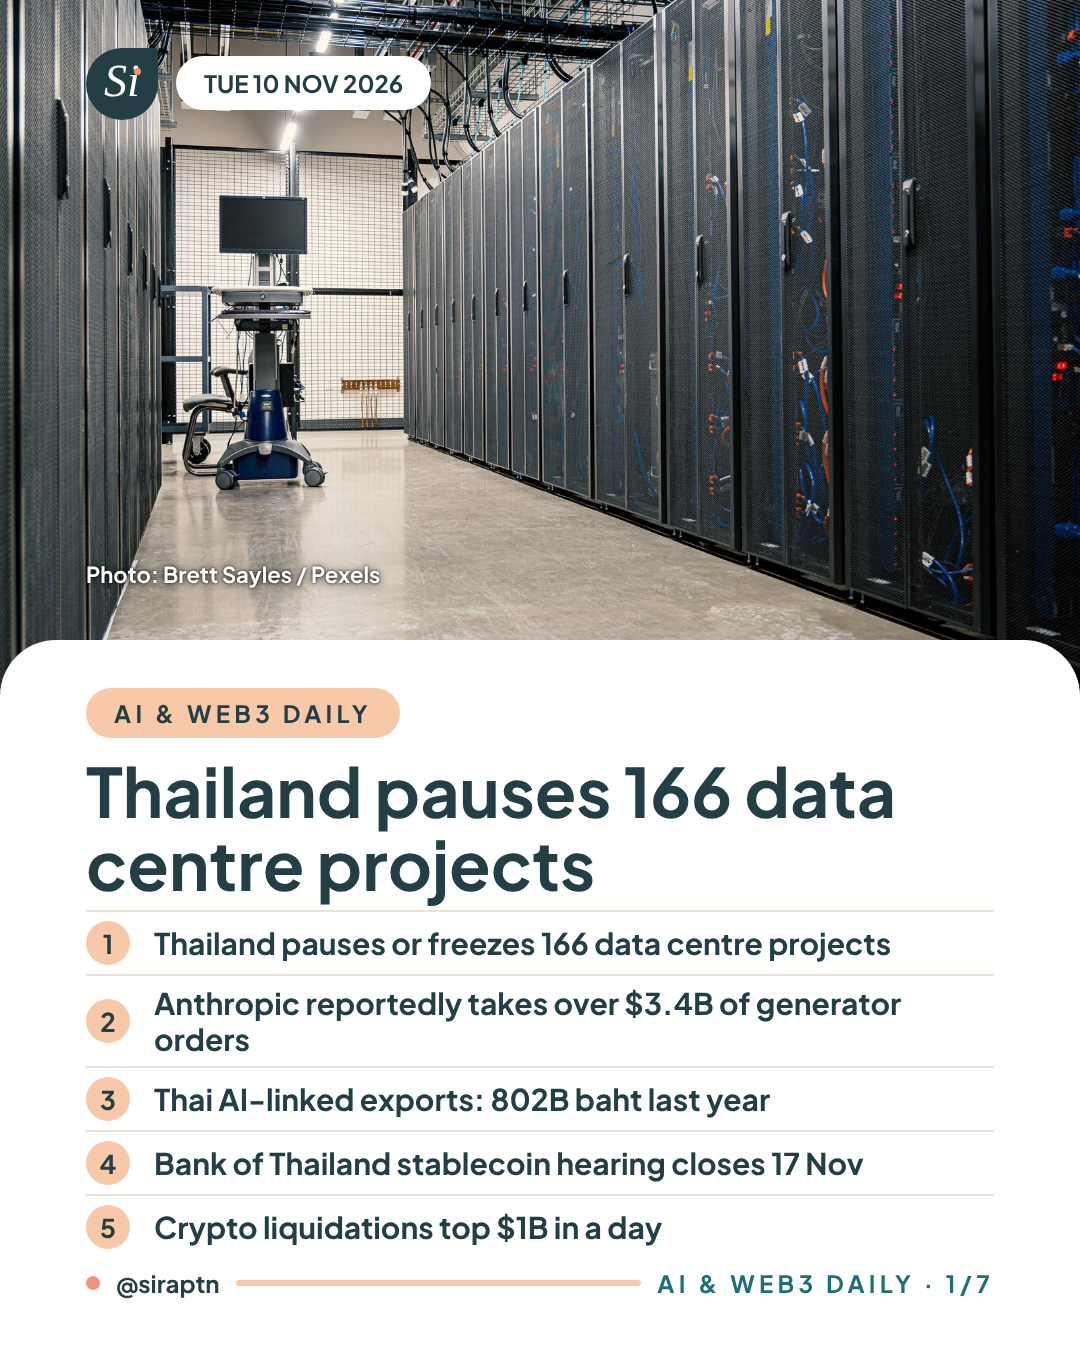
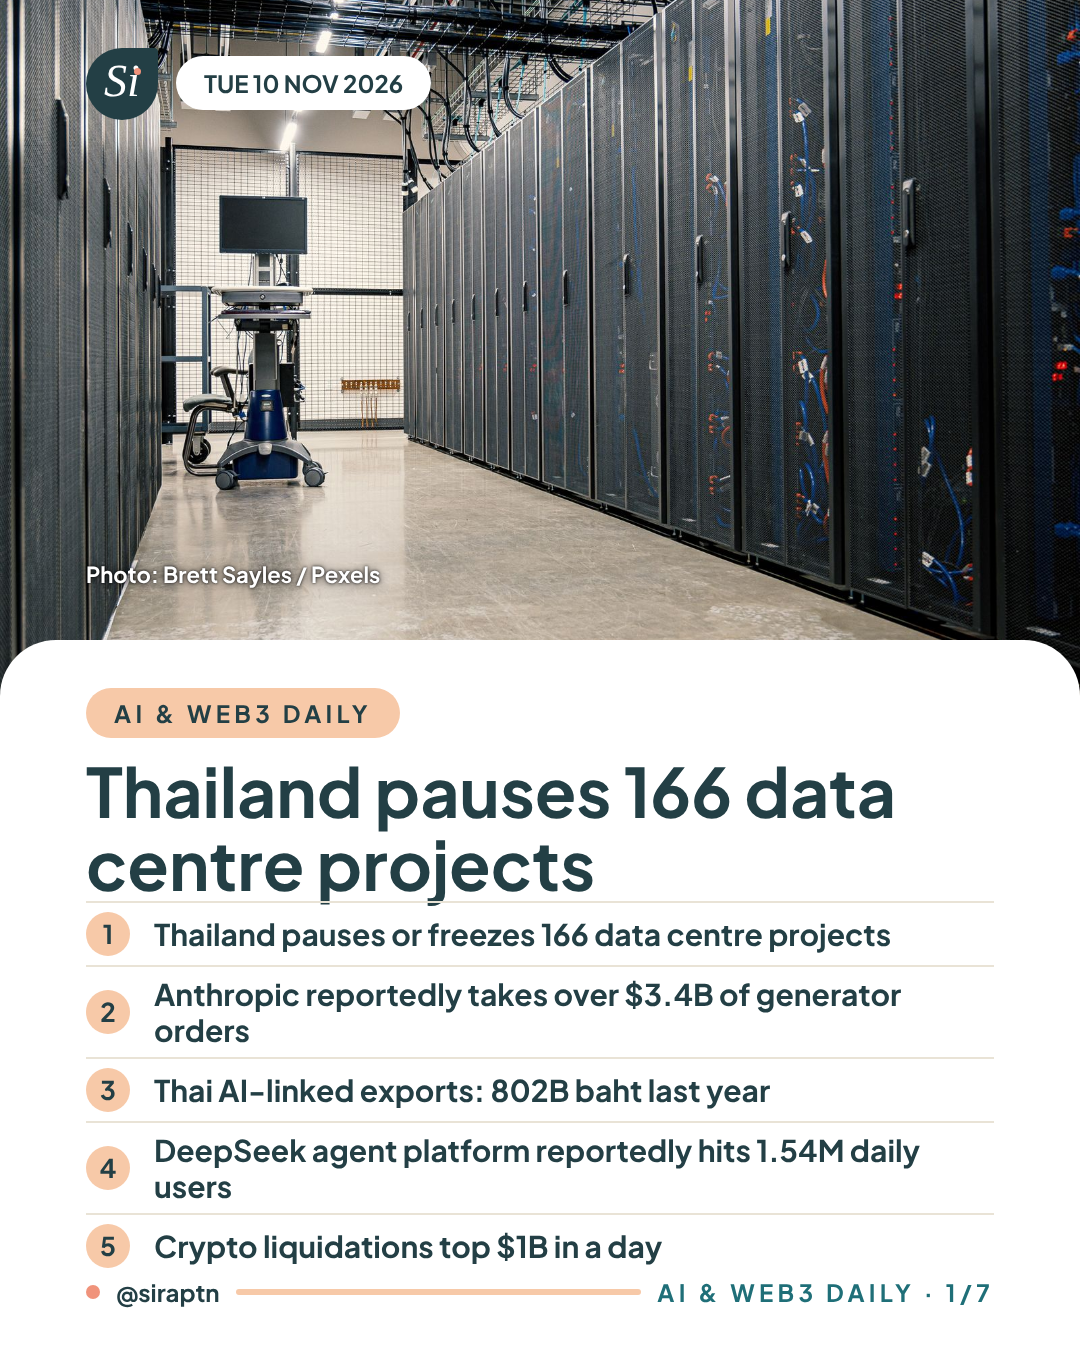
AI & Web3 Daily 2026-11-10: swap story 5 to DeepSeek
Claude-Session: https://claude.ai/code/session_01JswtoNPst8VVG3H4mtz8fY

Changed region(s): [[0.0611, 0.6533, 0.8556, 0.9644], [0.8861, 0.9333, 0.9167, 0.9644]]

diff --git a/tools/gen6.py b/tools/gen6.py
@@ -42,15 +42,15 @@ def PHOTO(h,lab,w=None):
 def CREDIT(pos):
     fid,cr,_=PH[CUR[0]]
     return f'<div style="position: absolute; {pos}; font-size: 22px; font-weight: 500; color: #FFFFFF; font-weight: 600; text-shadow: 0 0 3px rgba(0,0,0,0.9), 0 1px 10px rgba(0,0,0,0.75)">Photo: {cr} / Pexels</div>'
-AI['cover_ph']='dc'; AI['qph']='dc2'
+AI['cover_ph']='dc'; AI['qph']='bkk'
 AI['cover_head']="Thailand pauses 166 data centre projects"
 AI['mood']="cautious"; AI['quote']="We tend to overestimate the effect of a technology in the short run and underestimate the effect in the long run."; AI['who']="Roy Amara"; AI['by']="Institute for the Future · Amara's Law"; AI['qsize']=54
-AI['items']=["Thailand pauses or freezes 166 data centre projects","Anthropic reportedly takes over $3.4B of generator orders","Thai AI-linked exports: 802B baht last year","Bank of Thailand stablecoin hearing closes 17 Nov","Crypto liquidations top $1B in a day"]
+AI['items']=["Thailand pauses or freezes 166 data centre projects","Anthropic reportedly takes over $3.4B of generator orders","Thai AI-linked exports: 802B baht last year","DeepSeek agent platform reportedly hits 1.54M daily users","Crypto liquidations top $1B in a day"]
 AI['S']=[
  (2,"Thailand · AI Infrastructure","166","data centre projects paused or frozen, reportedly","Thailand pauses 166 data centre projects","","Construction is paused on 49 projects and approval decisions are frozen on 117 more, reportedly.","Thailand's data centre policy board made the decision at its first meeting, on 4 September 2026","ShiftDelete.Net (8 Nov), citing the Guardian (7 Nov)","rack"),
  (3,"Global · AI Infrastructure","$3.4B","generator orders Anthropic reportedly took over","Anthropic reportedly takes over $3.4B of generator orders","","The gas-powered generators total 1.7 gigawatts. The orders were taken over from Texas-based OnePWR Solutions, per the Financial Times.","Neither Anthropic nor OnePWR had publicly confirmed the deal","The Neuron (9 Nov), citing the Financial Times and Reuters","blue"),
  (4,"Thailand · AI and Economy","802B","baht of AI-linked exports last year","Thai AI-linked exports reach 802B baht","","Laptops, optical transceivers and backup power equipment made up more than 7% of Thailand's shipments.","Bloomberg-compiled estimates say the data revisions could add 0.2–0.3 points to 2026 GDP growth","VnExpress International (8 Nov), citing Bloomberg estimates","pool"),
- (5,"Thailand · Digital Assets","1:1","baht stablecoin peg proposed by the Bank of Thailand","Bank of Thailand stablecoin hearing closes 17 Nov","","The public hearing runs from 19 Oct to 17 Nov. The stablecoin would be fully backed by reserve assets.","Issuers and wallet providers would hold separate, regulated roles","Bank of Thailand public hearing page (read 10 Nov); CoinGeek (6 Nov)","bkk"),
+ (5,"China · AI Companies","1.54M","daily active users, DeepSeek agent platform, reportedly","DeepSeek agent platform reportedly hits 1.54M daily users","","Bloomberg reported the figure on 8 Nov. The platform is DeepSeek's AI agent product.","The figure is Bloomberg's report, summarised by The Neuron on 9 Nov","The Neuron (9 Nov), citing Bloomberg (8 Nov)","dc2"),
  (6,"Global · Crypto Markets","$1B","crypto positions liquidated in 24 hours, CoinGlass","Crypto liquidations top $1B in a day","","Longs were $913M of the total. Ether saw $448M and bitcoin $272M. Bitcoin fell to about $73,761, its lowest since August.","A liquidation closes a leveraged position when price moves against it","CoinDesk (9 Nov), citing CoinGlass","chip"),
 ]
 def write(outdir, urls, rows_only=None):
